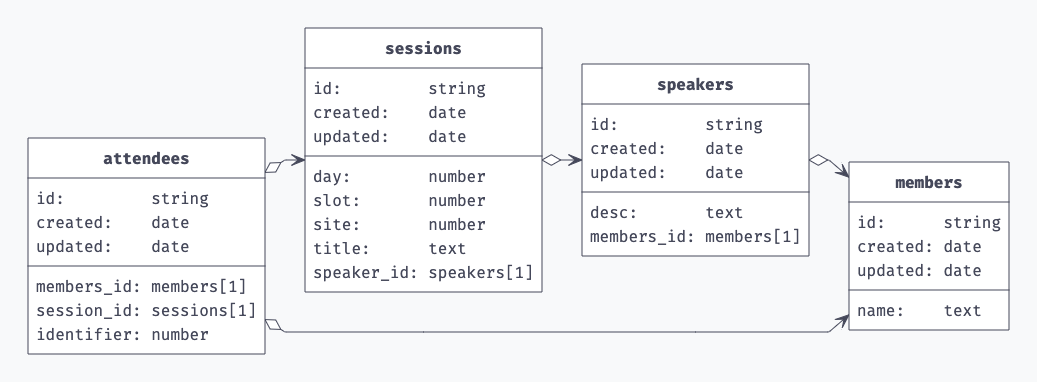
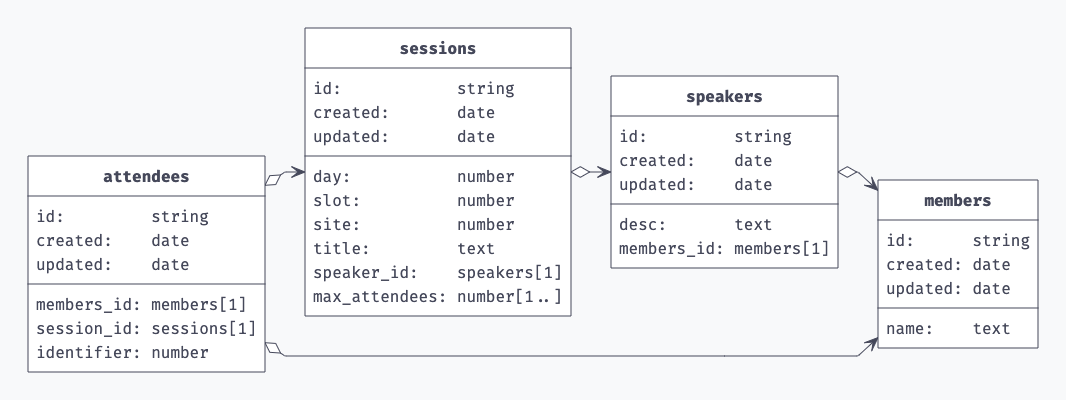
feat: add max

diff --git a/front/src/components/view/ViewSessions.vue b/front/src/components/view/ViewSessions.vue
@@ -6,16 +6,18 @@ import { useSessions } from '@/stores/useSessions'
 import { storeToRefs } from 'pinia'
 import type { SessionType } from '@/stores/typing'
 const _s = useSessions()
-const { sessions, speakers, curtUser, isCreatedMode, loading } = storeToRefs(_s)
+const { sessions, speakers, curtUser, isCreatedMode, loading, attendeesArr } = storeToRefs(_s)
 
 // 天數、場地 數量，依據業務邏輯調整
 const DAY_MAX = ref(3)
 const SITE_MAX = ref(2)
 
+const max_attendees = ref(3)
 const defaultItem = {
   id: '0',
   title: '',
   speaker_id: '0',
+  max_attendees: 3,
   attendees: []
 }
 const renderList = computed(() => {
@@ -46,9 +48,10 @@ const openModal = (item: SessionType) => {
 const handleCreate = () => {
   if (!openModalData.value?.speaker_id) return
   const { day, slot, site, speaker_id, title } = openModalData.value
-  const params = { day, slot, site, speaker_id, title }
+  const params = { day, slot, site, speaker_id, title, max_attendees: max_attendees.value }
   _s.addSession(params)
   CreateModal.value.close()
+  max_attendees.value = 3
 }
 
 const curtUserJoinedSession = computed(() => {
@@ -64,6 +67,10 @@ const sameSlotSession = computed(() => {
     (el) => el.slot === openModalData.value!.slot && el.day === openModalData.value!.day
   )
 })
+
+const joinedNumber = (id: string) => {
+  return attendeesArr.value.filter((el) => el.session_id === id).length
+}
 </script>
 
 <template>
@@ -98,7 +105,9 @@ const sameSlotSession = computed(() => {
                 class="btn btn-outline btn-info btn-xs"
                 @click="_s.addAttendee(item)"
                 :disabled="
-                  curtUserJoinedSession.some((el) => el.day === item.day && el.slot === item.slot)
+                  curtUserJoinedSession.some(
+                    (el) => el.day === item.day && el.slot === item.slot
+                  ) || joinedNumber(item.id) >= item.max_attendees
                 "
               >
                 JOIN
@@ -135,8 +144,19 @@ const sameSlotSession = computed(() => {
             <span class="w-20">slot</span>
             {{ slotMapping(openModalData?.day) }}
           </div>
+          <div class="row">
+            <span class="w-20">Max </span
+            ><input
+              class="input input-sm input-bordered w-24"
+              type="number"
+              v-model="max_attendees"
+            />
+          </div>
+          <div class="row">
+            <span class="w-20">Site</span>{{ siteMapping(openModalData?.site) }}
+          </div>
           <div class="row items-center">
-            <span class="w-20">Speaker</span>
+            <span class="w-20 text-red-500">Speaker</span>
             <select
               class="select select-bordered select-sm w-24"
               v-model="openModalData.speaker_id"
@@ -150,9 +170,6 @@ const sameSlotSession = computed(() => {
                 {{ user.name }}
               </option>
             </select>
-          </div>
-          <div class="row">
-            <span class="w-20">Site</span>{{ siteMapping(openModalData?.site) }}
           </div>
         </div>
         <div class="row justify-end">

diff --git a/front/src/stores/useSessions.ts b/front/src/stores/useSessions.ts
@@ -20,7 +20,7 @@ export const useSessions = defineStore('sessions', () => {
   const fetchSessions = async () => {
     sessions.value = await pb
       .collection('sessions')
-      .getFullList({ fields: 'id,day,slot,site,title,speaker_id' })
+      .getFullList({ fields: 'id,day,slot,site,title,speaker_id,max_attendees' })
     loading.value = false
   }
 
@@ -142,6 +142,7 @@ export const useSessions = defineStore('sessions', () => {
     sessions,
     members,
     speakers,
-    curtUser
+    curtUser,
+    attendeesArr
   }
 })

diff --git a/front/src/stores/typing.ts b/front/src/stores/typing.ts
@@ -4,6 +4,7 @@ export type SessionType = {
   slot: number
   site: number
   title: string
+  max_attendees: number
   speaker_id: string
   attendees: string[]
 }

diff --git a/README.md b/README.md
@@ -33,7 +33,7 @@
   - site: integer 1/2 場地
   - title: string (MySQL/Postgres/Mongodb)
   - speaker_id: relation
-  - (max_attendees: integer)
+  - max_attendees: integer
 - members 成員
   - id
   - name
@@ -50,4 +50,5 @@
 
 - [x] 依序業務需求，考量擴展性、設計 DB schema
 - [x] 使用 pocketbase 完成必要項目，包含 UI 邏輯、資料處理
-- [] 改使用原生 golang API
+- [ ] 改使用原生 golang API
+- [ ] 新增 "available" table，可舉辦會議之單位
